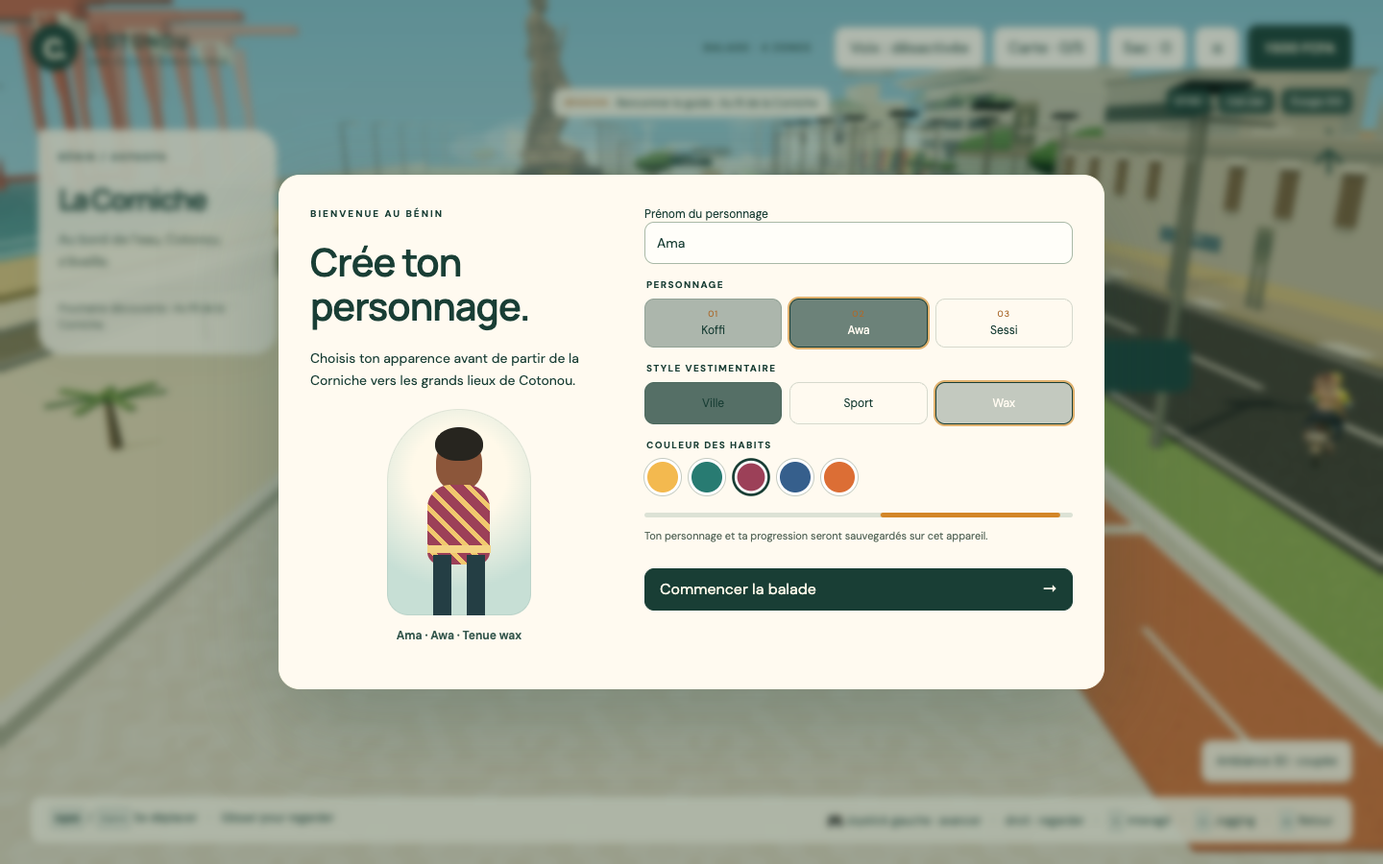
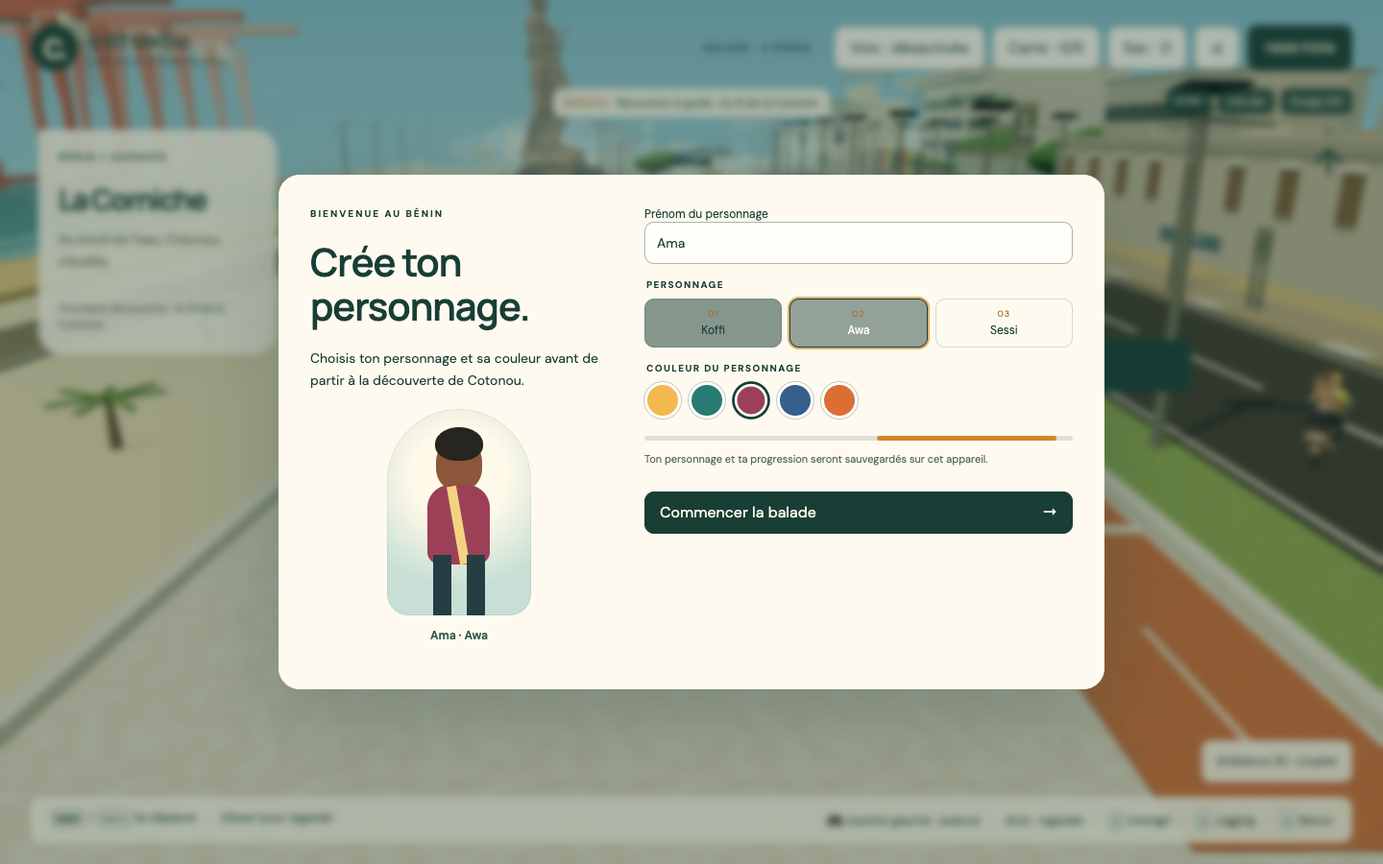
Corriger la couleur du personnage et le sens des trajets

diff --git a/src/Jeu.ts b/src/Jeu.ts
@@ -6,7 +6,7 @@ import { guides, lieux, zones, zoneActuelle, stations, etals, type Guide } from 
 import { DialogueVocal } from './ui/DialogueVocal';
 import { Manette, type LectureManette } from './input/Manette';
 import { demanderIA } from './ui/DialogueIA';
-import type { CorpsJoueur, StyleTenue } from './entities/Foule';
+import type { CorpsJoueur } from './entities/Foule';
 const $ = <T extends HTMLElement=HTMLElement>(id:string)=>document.getElementById(id) as T;
 type Interaction = {type:'guide';guide:Guide}|{type:'vendeuse'|'sport'|'transport'}|null;
 
@@ -27,7 +27,6 @@ export class Jeu {
   private sauvegardeTemps=0;
   private tenue='#f3b94f';
   private corpsJoueur:CorpsJoueur='personnage1.glb';
-  private styleTenue:StyleTenue='ville';
   private nomJoueur='Mika';
   private get panel(){return $<HTMLDialogElement>('panel');}
   private get accueil(){return $<HTMLDialogElement>('welcome');}
@@ -63,7 +62,7 @@ export class Jeu {
     <div id="sport" hidden><span id="sport-label">Jogging</span><progress id="progress" max="50" value="0"></progress></div>
     <footer><div><kbd>ZQSD</kbd> / <kbd>↑↓←→</kbd> Se déplacer <span>·</span> Glisser pour regarder</div><div>🎮 Joystick gauche : avancer <span>·</span> droit : regarder <span>·</span> <kbd>✕</kbd> Interagir <span>·</span> <kbd>□</kbd> Jogging <span>·</span> <kbd>○</kbd> Retour</div></footer>
     <div id="touch"><button data-key="arrowup" aria-label="Avancer">↑</button><div><button data-key="arrowleft" aria-label="Aller à gauche">←</button><button data-key="arrowdown" aria-label="Reculer">↓</button><button data-key="arrowright" aria-label="Aller à droite">→</button></div></div>
-    <dialog id="welcome"><div class="welcome-copy"><p class="eyebrow">BIENVENUE AU BÉNIN</p><h2>Crée ton personnage.</h2><p>Choisis ton apparence avant de partir de la Corniche vers les grands lieux de Cotonou.</p><div id="avatar-preview" class="avatar-preview" data-style="ville"><div class="preview-head"></div><div class="preview-hair"></div><div class="preview-body"></div><div class="preview-accent"></div><div class="preview-legs"></div></div><p id="avatar-summary" class="avatar-summary">Mika · Koffi · Tenue de ville</p></div><div class="character-creator"><label>Prénom du personnage<input id="player-name" maxlength="16" value="Mika" autocomplete="off"></label><fieldset><legend>Personnage</legend><div class="avatar-options"><button type="button" data-avatar="personnage1.glb" aria-pressed="true"><span>01</span>Koffi</button><button type="button" data-avatar="perso2.glb" aria-pressed="false"><span>02</span>Awa</button><button type="button" data-avatar="go2.glb" aria-pressed="false"><span>03</span>Sessi</button></div></fieldset><fieldset><legend>Style vestimentaire</legend><div class="style-options"><button type="button" data-clothing="ville" aria-pressed="true">Ville</button><button type="button" data-clothing="sport" aria-pressed="false">Sport</button><button type="button" data-clothing="wax" aria-pressed="false">Wax</button></div></fieldset><fieldset><legend>Couleur des habits</legend><div class="color-options"><button type="button" data-color="#f3b94f" aria-label="Jaune soleil" aria-pressed="true"></button><button type="button" data-color="#287b72" aria-label="Vert lagune" aria-pressed="false"></button><button type="button" data-color="#9c4058" aria-label="Bordeaux" aria-pressed="false"></button><button type="button" data-color="#365f8c" aria-label="Bleu" aria-pressed="false"></button><button type="button" data-color="#dc6e35" aria-label="Orange" aria-pressed="false"></button></div></fieldset><div class="loading-city"><span></span></div><p class="note">Ton personnage et ta progression seront sauvegardés sur cet appareil.</p><button id="begin" class="primary">Commencer la balade <span>→</span></button></div></dialog>
+    <dialog id="welcome"><div class="welcome-copy"><p class="eyebrow">BIENVENUE AU BÉNIN</p><h2>Crée ton personnage.</h2><p>Choisis ton personnage et sa couleur avant de partir à la découverte de Cotonou.</p><div id="avatar-preview" class="avatar-preview"><div class="preview-head"></div><div class="preview-hair"></div><div class="preview-body"></div><div class="preview-accent"></div><div class="preview-legs"></div></div><p id="avatar-summary" class="avatar-summary">Mika · Koffi</p></div><div class="character-creator"><label>Prénom du personnage<input id="player-name" maxlength="16" value="Mika" autocomplete="off"></label><fieldset><legend>Personnage</legend><div class="avatar-options"><button type="button" data-avatar="personnage1.glb" aria-pressed="true"><span>01</span>Koffi</button><button type="button" data-avatar="perso2.glb" aria-pressed="false"><span>02</span>Awa</button><button type="button" data-avatar="go2.glb" aria-pressed="false"><span>03</span>Sessi</button></div></fieldset><fieldset><legend>Couleur du personnage</legend><div class="color-options"><button type="button" data-color="#f3b94f" aria-label="Jaune soleil" aria-pressed="true"></button><button type="button" data-color="#287b72" aria-label="Vert lagune" aria-pressed="false"></button><button type="button" data-color="#9c4058" aria-label="Bordeaux" aria-pressed="false"></button><button type="button" data-color="#365f8c" aria-label="Bleu" aria-pressed="false"></button><button type="button" data-color="#dc6e35" aria-label="Orange" aria-pressed="false"></button></div></fieldset><div class="loading-city"><span></span></div><p class="note">Ton personnage et ta progression seront sauvegardés sur cet appareil.</p><button id="begin" class="primary">Commencer la balade <span>→</span></button></div></dialog>
     <dialog id="panel"><button id="close" class="close" aria-label="Fermer">×</button><p id="panel-kicker" class="eyebrow"></p><h2 id="panel-title"></h2><div id="panel-body"></div></dialog>`;
   }
   private notifier(text:string){
@@ -84,7 +83,7 @@ export class Jeu {
     {id:'mobilite',titre:'Mobilité urbaine',detail:'Essayer le zémidjan et la voiture',gain:250,faite:this.partie.transportsUtilises.has('zemidjan')&&this.partie.transportsUtilises.has('voiture')},
   ];}
   private sauvegarder(){
-    try{localStorage.setItem('cotonou-sauvegarde-v2',JSON.stringify({partie:this.partie.serialiser(),sport:{termine:this.sport.termine},position:{x:this.monde.player.position.x,z:this.monde.player.position.z},tenue:this.tenue,corpsJoueur:this.corpsJoueur,styleTenue:this.styleTenue,nomJoueur:this.nomJoueur}));}catch{}
+    try{localStorage.setItem('cotonou-sauvegarde-v2',JSON.stringify({partie:this.partie.serialiser(),sport:{termine:this.sport.termine},position:{x:this.monde.player.position.x,z:this.monde.player.position.z},tenue:this.tenue,corpsJoueur:this.corpsJoueur,nomJoueur:this.nomJoueur}));}catch{}
   }
   private chargerSauvegarde(){
     try{
@@ -94,7 +93,6 @@ export class Jeu {
       if(data?.position)this.monde.restaurerPosition(Number(data.position.x),Number(data.position.z));
       if(typeof data?.tenue==='string')this.tenue=data.tenue;
       if(['personnage1.glb','perso2.glb','go2.glb'].includes(data?.corpsJoueur))this.corpsJoueur=data.corpsJoueur;
-      if(['ville','sport','wax'].includes(data?.styleTenue))this.styleTenue=data.styleTenue;
       if(typeof data?.nomJoueur==='string'&&data.nomJoueur.trim())this.nomJoueur=data.nomJoueur.slice(0,16);
       this.appliquerApparence();
       $<HTMLButtonElement>('begin').innerHTML='Continuer la balade <span>→</span>';this.synchroniser();
@@ -148,20 +146,17 @@ export class Jeu {
     $<HTMLInputElement>('player-name').value=this.nomJoueur;
     $('player-name').addEventListener('input',()=>{this.nomJoueur=$<HTMLInputElement>('player-name').value.trim().slice(0,16)||'Mika';this.mettreAJourCreateur();});
     document.querySelectorAll<HTMLButtonElement>('[data-avatar]').forEach(b=>b.onclick=()=>{this.corpsJoueur=b.dataset.avatar as CorpsJoueur;this.appliquerApparence();});
-    document.querySelectorAll<HTMLButtonElement>('[data-clothing]').forEach(b=>b.onclick=()=>{this.styleTenue=b.dataset.clothing as StyleTenue;this.appliquerApparence();});
     document.querySelectorAll<HTMLButtonElement>('[data-color]').forEach(b=>b.onclick=()=>{this.tenue=b.dataset.color!;this.appliquerApparence();});
     this.appliquerApparence();
   }
-  private appliquerApparence(){this.monde.personnaliserJoueur(this.tenue,this.corpsJoueur,this.styleTenue);this.mettreAJourCreateur();}
+  private appliquerApparence(){this.monde.personnaliserJoueur(this.tenue,this.corpsJoueur);this.mettreAJourCreateur();}
   private mettreAJourCreateur(){
     if(!$('avatar-preview'))return;
     const noms:Record<CorpsJoueur,string>={'personnage1.glb':'Koffi','perso2.glb':'Awa','go2.glb':'Sessi'};
-    const styles:Record<StyleTenue,string>={ville:'Tenue de ville',sport:'Tenue de sport',wax:'Tenue wax'};
-    $('avatar-preview').dataset.style=this.styleTenue;$('avatar-preview').dataset.avatar=this.corpsJoueur;
+    $('avatar-preview').dataset.avatar=this.corpsJoueur;
     $('avatar-preview').style.setProperty('--outfit',this.tenue);
-    $('avatar-summary').textContent=`${this.nomJoueur} · ${noms[this.corpsJoueur]} · ${styles[this.styleTenue]}`;
+    $('avatar-summary').textContent=`${this.nomJoueur} · ${noms[this.corpsJoueur]}`;
     document.querySelectorAll<HTMLButtonElement>('[data-avatar]').forEach(b=>b.setAttribute('aria-pressed',String(b.dataset.avatar===this.corpsJoueur)));
-    document.querySelectorAll<HTMLButtonElement>('[data-clothing]').forEach(b=>b.setAttribute('aria-pressed',String(b.dataset.clothing===this.styleTenue)));
     document.querySelectorAll<HTMLButtonElement>('[data-color]').forEach(b=>b.setAttribute('aria-pressed',String(b.dataset.color===this.tenue)));
   }
   private elementsManette(dialogue:HTMLDialogElement){
@@ -232,7 +227,7 @@ export class Jeu {
     if($('summary'))$('summary').onclick=()=>{this.panel.close();this.bilan();};
   }
   private ouvrirMenu(){
-    this.ouvrir('Pause','RÉGLAGES ET SAUVEGARDE',`<div class="settings"><label>Qualité graphique<select id="quality"><option value="normale">Normale</option><option value="basse">Basse</option><option value="haute">Haute</option></select></label><label>Météo<select id="weather-setting"><option value="auto">Dynamique</option><option value="soleil">Ciel clair</option><option value="pluie">Pluie tropicale</option></select></label><label>Heure<select id="time-setting"><option value="auto">Cycle automatique</option><option value="matin">Matin</option><option value="jour">Journée</option><option value="soir">Soirée</option></select></label><label>Volume ambiance<input id="volume-setting" type="range" min="0" max="100" value="58"></label></div><h3>${this.nomJoueur}</h3><p class="note">Tu peux changer de personnage, de style ou de couleur pendant la partie.</p><button id="edit-character">Modifier mon personnage</button><p class="note">La progression et la position sont enregistrées automatiquement sur cet appareil.</p><button id="save-now" class="primary">Sauvegarder maintenant</button> <button id="reset-save">Nouvelle partie</button>`);
+    this.ouvrir('Pause','RÉGLAGES ET SAUVEGARDE',`<div class="settings"><label>Qualité graphique<select id="quality"><option value="normale">Normale</option><option value="basse">Basse</option><option value="haute">Haute</option></select></label><label>Météo<select id="weather-setting"><option value="auto">Dynamique</option><option value="soleil">Ciel clair</option><option value="pluie">Pluie tropicale</option></select></label><label>Heure<select id="time-setting"><option value="auto">Cycle automatique</option><option value="matin">Matin</option><option value="jour">Journée</option><option value="soir">Soirée</option></select></label><label>Volume ambiance<input id="volume-setting" type="range" min="0" max="100" value="58"></label></div><h3>${this.nomJoueur}</h3><p class="note">Tu peux changer de personnage ou de couleur pendant la partie.</p><button id="edit-character">Modifier mon personnage</button><p class="note">La progression et la position sont enregistrées automatiquement sur cet appareil.</p><button id="save-now" class="primary">Sauvegarder maintenant</button> <button id="reset-save">Nouvelle partie</button>`);
     $<HTMLSelectElement>('quality').onchange=e=>this.monde.reglerQualite((e.target as HTMLSelectElement).value as 'basse'|'normale'|'haute');
     $<HTMLSelectElement>('weather-setting').onchange=e=>this.monde.reglerMeteo((e.target as HTMLSelectElement).value as 'auto'|'soleil'|'pluie');
     $<HTMLSelectElement>('time-setting').onchange=e=>this.monde.reglerHeure((e.target as HTMLSelectElement).value as 'auto'|'matin'|'jour'|'soir');
@@ -278,13 +273,18 @@ export class Jeu {
     this.ouvrir('On t’emmène ?','BORNE DE TRANSPORT',`<p>Choisis ton véhicule. Tu le diriges avec les mêmes commandes et tu peux descendre avec F. Le tarif est payé une seule fois à la montée.</p><div class="transport-options">${this.transports.map(t=>`<button data-transport="${t.id}"><strong>${t.nom}</strong><span>${t.tarif} FCFA · vitesse ×${t.vitesse/4}</span></button>`).join('')}</div><div id="ride-confirmation" role="status"></div><p class="note">Tarifs fictifs. Sans solde suffisant, tu peux continuer à pied gratuitement.</p>`);
     $('panel-body').querySelectorAll<HTMLButtonElement>('[data-transport]').forEach(b=>b.onclick=()=>{
       const transport=this.transports.find(t=>t.id===b.dataset.transport)!;
-      $('ride-confirmation').innerHTML=`<p>Confirmer ${transport.nom} pour ${transport.tarif} FCFA ?</p><button id="confirm-ride" class="primary">Confirmer et monter</button> <button id="cancel-ride">Annuler</button>`;
+      $('ride-confirmation').innerHTML=`<p><strong>Dans quel sens pars-tu ?</strong></p><div class="direction-options"><button data-direction="etoile"><strong>Vers l’Étoile Rouge</strong><span>Amazone · Présidence · Congrès</span></button><button data-direction="corniche"><strong>Vers la Corniche</strong><span>Akpakpa · Hôtel du Lac</span></button></div><button id="cancel-ride">Annuler</button>`;
       $('cancel-ride').onclick=()=>$('ride-confirmation').replaceChildren();
-      $('confirm-ride').onclick=()=>{
-        if(!this.partie.monter(transport)){this.manette.vibrer('erreur');$('ride-confirmation').textContent='Solde insuffisant ou véhicule déjà actif. Tu peux continuer à pied.';return;}
-        this.manette.vibrer('montee');
-        this.sport.arreter();this.monde.engagerTransportSurVoie(transport.id);this.synchroniser();this.panel.close();this.notifier(`${transport.nom} engagé sur la voie : avance avec Z, ↑ ou le joystick gauche. F ou ○ pour descendre.`);
-      };
+      $('ride-confirmation').querySelectorAll<HTMLButtonElement>('[data-direction]').forEach(direction=>direction.onclick=()=>{
+        const sens=direction.dataset.direction as 'etoile'|'corniche',destination=sens==='etoile'?'l’Étoile Rouge':'la Corniche';
+        $('ride-confirmation').innerHTML=`<p>Confirmer ${transport.nom} vers ${destination} pour ${transport.tarif} FCFA ?</p><button id="confirm-ride" class="primary">Confirmer et monter</button> <button id="cancel-ride">Changer de direction</button>`;
+        $('cancel-ride').onclick=()=>b.click();
+        $('confirm-ride').onclick=()=>{
+          if(!this.partie.monter(transport)){this.manette.vibrer('erreur');$('ride-confirmation').textContent='Solde insuffisant ou véhicule déjà actif. Tu peux continuer à pied.';return;}
+          this.manette.vibrer('montee');this.sport.arreter();this.monde.engagerTransportSurVoie(transport.id,sens);this.synchroniser();this.panel.close();
+          this.notifier(`${transport.nom} orienté vers ${destination} sur la bonne voie. Avance avec Z, ↑ ou le joystick gauche.`);
+        };
+      });
     });
   }
   private descendre(){

diff --git a/src/style.css b/src/style.css
@@ -15,15 +15,15 @@ select{width:100%;margin-top:6px;border:1px solid #a9b9a7;border-radius:9px;padd
 #welcome[open]{display:grid;grid-template-columns:minmax(250px,.82fr) minmax(330px,1.18fr);gap:38px}
 #welcome h2{font-size:40px}.welcome-copy{align-self:center}.character-creator{min-width:0}
 .character-creator fieldset{border:0;padding:0;margin:15px 0}.character-creator legend{font-size:10px;font-weight:700;letter-spacing:1.4px;text-transform:uppercase;margin-bottom:8px}
-.avatar-options,.style-options,.color-options{display:flex;gap:8px}.avatar-options button,.style-options button{flex:1;padding:9px;font-size:12px}.avatar-options span{display:block;color:#aa6a2d;font-size:9px;letter-spacing:1px;margin-bottom:3px}
-.avatar-options button[aria-pressed=true],.style-options button[aria-pressed=true]{background:#193e35;color:#fffaf0;border-color:#193e35;box-shadow:0 0 0 2px #e0b16e}
+.avatar-options,.color-options{display:flex;gap:8px}.avatar-options button{flex:1;padding:9px;font-size:12px}.avatar-options span{display:block;color:#aa6a2d;font-size:9px;letter-spacing:1px;margin-bottom:3px}
+.avatar-options button[aria-pressed=true]{background:#193e35;color:#fffaf0;border-color:#193e35;box-shadow:0 0 0 2px #e0b16e}
 .color-options button{width:38px;min-height:38px;padding:0;border-radius:50%;background:var(--swatch);border:3px solid #fff;box-shadow:0 0 0 1px #193e3540}
 .color-options button[data-color="#f3b94f"]{--swatch:#f3b94f}.color-options button[data-color="#287b72"]{--swatch:#287b72}.color-options button[data-color="#9c4058"]{--swatch:#9c4058}.color-options button[data-color="#365f8c"]{--swatch:#365f8c}.color-options button[data-color="#dc6e35"]{--swatch:#dc6e35}
 .color-options button[aria-pressed=true]{box-shadow:0 0 0 3px #193e35;transform:scale(.9)}
 .avatar-preview{--outfit:#f3b94f;position:relative;width:150px;height:215px;margin:18px auto 8px;border-radius:80px 80px 24px 24px;background:radial-gradient(circle at 50% 32%,#fff9e9 0 30%,#c7dfd5 72%);overflow:hidden;box-shadow:inset 0 0 0 1px #193e3512}
 .preview-head{position:absolute;width:48px;height:56px;border-radius:48% 48% 42% 42%;background:#75472f;left:51px;top:29px}.preview-hair{position:absolute;width:50px;height:24px;border-radius:50% 50% 20% 20%;background:#27251f;left:50px;top:24px}.preview-body{position:absolute;width:65px;height:83px;border-radius:24px 24px 13px 13px;background:var(--outfit);left:42px;top:79px}.preview-accent{position:absolute;width:10px;height:82px;background:#f3d383;left:69px;top:80px;transform:rotate(-10deg)}.preview-legs{position:absolute;width:54px;height:68px;left:48px;top:152px;border-left:19px solid #243e44;border-right:19px solid #243e44}
 .avatar-preview[data-avatar="perso2.glb"] .preview-head{background:#8c563a}.avatar-preview[data-avatar="perso2.glb"] .preview-hair{height:35px;border-radius:50% 50% 45% 45%;top:19px}.avatar-preview[data-avatar="go2.glb"] .preview-head{background:#5e3929}.avatar-preview[data-avatar="go2.glb"] .preview-hair{width:55px;left:47px;border-radius:35%}
-.avatar-preview[data-style=sport] .preview-body{width:54px;left:48px;border-radius:16px 16px 8px 8px}.avatar-preview[data-style=sport] .preview-accent{width:7px;left:71px;transform:none}.avatar-preview[data-style=wax] .preview-body{background:repeating-linear-gradient(45deg,var(--outfit) 0 10px,#f1c86e 10px 15px)}.avatar-preview[data-style=wax] .preview-accent{width:66px;height:8px;left:42px;top:142px;transform:none}
 .avatar-summary{text-align:center;font-size:12px;font-weight:700;color:#36584e}
 #edit-character{margin-bottom:14px}
-@media(max-width:700px){#welcome{padding:22px;overflow:auto}#welcome[open]{display:block}.welcome-copy>p:not(.eyebrow),.welcome-copy h2{display:none}.avatar-preview{width:105px;height:140px;margin:0 auto 8px;transform:scale(.72);transform-origin:top center;margin-bottom:-32px}.character-creator fieldset{margin:11px 0}.avatar-options button,.style-options button{padding:7px 4px}.color-options{justify-content:center}#welcome .loading-city{display:none}}
+.direction-options{display:grid;grid-template-columns:1fr 1fr;gap:9px;margin:12px 0}.direction-options button{text-align:left;padding:15px}.direction-options strong,.direction-options span{display:block}.direction-options span{font-size:10px;color:#647369;margin-top:5px}.direction-options button:hover{background:#dce7db}
+@media(max-width:700px){#welcome{padding:22px;overflow:auto}#welcome[open]{display:block}.welcome-copy>p:not(.eyebrow),.welcome-copy h2{display:none}.avatar-preview{width:105px;height:140px;margin:0 auto 8px;transform:scale(.72);transform-origin:top center;margin-bottom:-32px}.character-creator fieldset{margin:11px 0}.avatar-options button{padding:7px 4px}.color-options{justify-content:center}#welcome .loading-city{display:none}}

diff --git a/src/entities/Foule.ts b/src/entities/Foule.ts
@@ -37,7 +37,6 @@ type Habitant = {
   bulle?:T.Sprite;
 };
 
-export type StyleTenue = 'ville'|'sport'|'wax';
 export type CorpsJoueur = 'personnage1.glb'|'perso2.glb'|'go2.glb';
 
 /** Teinte et saturation d’une couleur, pour reconnaître les habits dans l’atlas. */
@@ -83,8 +82,6 @@ export class Foule {
   private varie = false;
   private couleurJoueur='#f3b94f';
   private temps=0;
-  private accessoiresJoueur?:T.Group;
-  private styleJoueur:StyleTenue='ville';
 
   constructor(private readonly scene: T.Object3D) {}
 
@@ -235,9 +232,9 @@ export class Foule {
     }
     return habilles;
   }
-  personnaliserJoueur(couleur:string,corps:CorpsJoueur=this.corpsJoueur as CorpsJoueur,style:StyleTenue=this.styleJoueur){
+  personnaliserJoueur(couleur:string,corps:CorpsJoueur=this.corpsJoueur as CorpsJoueur){
     const corpsChange=corps!==this.corpsJoueur;
-    this.couleurJoueur=couleur;this.corpsJoueur=corps;this.styleJoueur=style;
+    this.couleurJoueur=couleur;this.corpsJoueur=corps;
     if(corpsChange)this.changerCorpsJoueur();
     this.appliquerCouleurJoueur();
   }
@@ -251,29 +248,14 @@ export class Foule {
   }
   private appliquerCouleurJoueur(){
     const h=this.joueur;if(!h||!this.matiereOrigine)return;
-    this.accessoiresJoueur?.removeFromParent();
-    const groupe=new T.Group();groupe.name=`tenue-joueur-${this.styleJoueur}`;
-    const tissu=new T.MeshStandardMaterial({color:this.couleurJoueur,roughness:.78,side:T.DoubleSide});
-    const clair=new T.MeshStandardMaterial({color:new T.Color(this.couleurJoueur).lerp(new T.Color('#f8df9c'),.38),roughness:.82,side:T.DoubleSide});
-    const piece=(geometrie:T.BufferGeometry,matiere:T.Material,x:number,y:number,z:number)=>{const m=new T.Mesh(geometrie,matiere);m.position.set(x,y,z);m.castShadow=true;groupe.add(m);return m;};
-    if(this.styleJoueur==='ville'){
-      const veste=piece(new T.CylinderGeometry(.255,.22,.53,12),tissu,0,1.22,.005);veste.scale.z=.72;
-      piece(new T.BoxGeometry(.3,.055,.025),clair,0,1.2,.18);
-    }else if(this.styleJoueur==='sport'){
-      const maillot=piece(new T.CylinderGeometry(.225,.205,.48,12),tissu,0,1.23,.006);maillot.scale.z=.7;
-      piece(new T.BoxGeometry(.08,.49,.025),clair,0,1.23,.17);
-      const bandeau=piece(new T.TorusGeometry(.145,.025,6,16),tissu,0,1.82,0);bandeau.rotation.x=Math.PI/2;
-    }else{
-      const pagne=piece(new T.CylinderGeometry(.22,.31,.64,12),tissu,0,.78,0);pagne.scale.z=.78;
-      for(const y of [.56,.76,.96])piece(new T.TorusGeometry(.275,.024,5,18),clair,0,y,0).rotation.x=Math.PI/2;
-      const echarpe=piece(new T.PlaneGeometry(.2,.82),tissu,.04,1.22,.19);echarpe.rotation.z=-.28;
-    }
-    h.personnage.objet.add(groupe);this.accessoiresJoueur=groupe;
     if(!h.fige){const tenue=this.matiere(this.couleurJoueur);h.corps.traverse(n=>{const m=n as T.Mesh;if(m.isMesh)m.material=tenue;});return;}
-    // Les silhouettes debout possèdent un autre atlas UV. On conserve leur
-    // propre texture et applique seulement une teinte claire.
+    this.teinterCorps(h.corps);
+  }
+  private teinterCorps(corps:T.Object3D){
+    // Les silhouettes debout possèdent leur propre atlas UV. La matière est
+    // clonée et teintée directement, sans ajouter de volumes autour du corps.
     const teinte=new T.Color(this.couleurJoueur).lerp(new T.Color('#ffffff'),.58);
-    h.corps.traverse(n=>{const m=n as T.Mesh;if(!m.isMesh||!(m.material instanceof T.MeshStandardMaterial))return;
+    corps.traverse(n=>{const m=n as T.Mesh;if(!m.isMesh||!(m.material instanceof T.MeshStandardMaterial))return;
       const origine=(m.userData.matiereTenueOrigine as T.MeshStandardMaterial|undefined)??m.material;
       m.userData.matiereTenueOrigine=origine;const matiere=origine.clone();matiere.color.copy(origine.color).multiply(teinte);m.material=matiere;});
   }
@@ -314,9 +296,9 @@ export class Foule {
     const corps=choix.clone();corps.scale.setScalar(echelle);
     corps.position.set(-centre.x*echelle,-boite.min.y*echelle,-centre.z*echelle);
     corps.rotation.x=-.1;
+    this.teinterCorps(corps);
     corps.traverse(n=>{const m=n as T.Mesh;if(m.isMesh){m.castShadow=false;m.receiveShadow=true;}});
     const passager=new T.Group();passager.name='passager-joueur-moto';passager.add(corps);passager.visible=false;
-    if(this.accessoiresJoueur){const tenue=this.accessoiresJoueur.clone();tenue.scale.setScalar(.85);passager.add(tenue);}
     return passager;
   }
   /** Fait entrer ou sortir visuellement le corps du joueur par le côté du véhicule. */

diff --git a/tests/systemes.spec.ts b/tests/systemes.spec.ts
@@ -9,15 +9,12 @@ test('sauvegarde, météo, réglages, carte et missions',async({page})=>{
   await page.goto('/');
   await page.getByLabel('Prénom du personnage').fill('Ama');
   await page.getByRole('button',{name:/Awa/}).click();
-  await page.getByRole('button',{name:'Wax'}).click();
   await page.getByRole('button',{name:'Bordeaux'}).click();
-  await expect(page.locator('#avatar-summary')).toHaveText('Ama · Awa · Tenue wax');
-  await expect(page.getByRole('button',{name:'Wax'})).toHaveAttribute('aria-pressed','true');
-  await expect(page.getByRole('button',{name:'Ville'})).toHaveAttribute('aria-pressed','false');
+  await expect(page.locator('#avatar-summary')).toHaveText('Ama · Awa');
   await page.screenshot({path:'docs/audit/createur-personnage.png'});
   await page.getByRole('button',{name:'Commencer la balade'}).click();
-  await expect.poll(()=>page.evaluate(()=>{const s=(window as any).__scenes.find((v:any)=>v.getObjectByName('joueur'));return s.getObjectByName('joueur').userData.apparenceJoueur;})).toEqual({couleur:'#9c4058',corps:'perso2.glb',style:'wax'});
-  await expect.poll(()=>page.evaluate(()=>{const s=(window as any).__scenes.find((v:any)=>v.getObjectByName('joueur'));const j=s.getObjectByName('joueur');return {avatar:j.getObjectByName('corps-personnage')?.userData.avatar,tenue:!!j.getObjectByName('tenue-joueur-wax')};}),{timeout:20000}).toEqual({avatar:'perso2.glb',tenue:true});
+  await expect.poll(()=>page.evaluate(()=>{const s=(window as any).__scenes.find((v:any)=>v.getObjectByName('joueur'));return s.getObjectByName('joueur').userData.apparenceJoueur;})).toEqual({couleur:'#9c4058',corps:'perso2.glb'});
+  await expect.poll(()=>page.evaluate(()=>{const s=(window as any).__scenes.find((v:any)=>v.getObjectByName('joueur'));const j=s.getObjectByName('joueur');return {avatar:j.getObjectByName('corps-personnage')?.userData.avatar,surcouche:j.children.some((v:any)=>v.name.startsWith('tenue-joueur-'))};}),{timeout:20000}).toEqual({avatar:'perso2.glb',surcouche:false});
   expect([200,502,503]).toContain(await page.evaluate(async()=>{const r=await fetch('/api/dialogue',{method:'POST',headers:{'content-type':'application/json'},body:JSON.stringify({message:'Bonjour',historique:[]})});return r.status;}));
   await page.getByRole('button',{name:'Pause et réglages'}).click();
   await page.getByLabel('Météo').selectOption('pluie');await page.getByLabel('Heure').selectOption('soir');
@@ -28,7 +25,7 @@ test('sauvegarde, météo, réglages, carte et missions',async({page})=>{
   await page.getByRole('button',{name:/Carte/}).click();await expect(page.getByRole('heading',{name:'Carte et missions'})).toBeVisible();await expect(page.locator('.missions')).toContainText('Mémoire de Cotonou');await page.keyboard.press('Escape');
   await page.evaluate(()=>{const s=(window as any).__scenes.find((v:any)=>v.getObjectByName('joueur'));s.getObjectByName('joueur').position.set(2,.15,-121);});
   await page.waitForTimeout(2300);await page.reload();await expect(page.getByRole('button',{name:'Continuer la balade'})).toBeVisible();
-  await expect(page.getByLabel('Prénom du personnage')).toHaveValue('Ama');await expect(page.getByRole('button',{name:/Awa/})).toHaveAttribute('aria-pressed','true');await expect(page.getByRole('button',{name:'Wax'})).toHaveAttribute('aria-pressed','true');
+  await expect(page.getByLabel('Prénom du personnage')).toHaveValue('Ama');await expect(page.getByRole('button',{name:/Awa/})).toHaveAttribute('aria-pressed','true');
   await page.getByRole('button',{name:'Continuer la balade'}).click();
   await expect.poll(()=>page.evaluate(()=>{const s=(window as any).__scenes.find((v:any)=>v.getObjectByName('joueur'));return s.getObjectByName('joueur').position.z;})).toBeCloseTo(-121,0);
   expect(errors).toEqual([]);

diff --git a/src/world.ts b/src/world.ts
@@ -5,7 +5,7 @@ import { Batisseur } from './entities/Batisseur';
 import { boulevard, corniche, esplanadeAmazone, citeMinisterielle, palaisMarina, palaisCongres, etoileRouge, figures, vehicule } from './entities/Monuments';
 import { chargerModeles, type Pose } from './entities/Modeles';
 import { Foule } from './entities/Foule';
-import type { CorpsJoueur, StyleTenue } from './entities/Foule';
+import type { CorpsJoueur } from './entities/Foule';
 import { MerAnimee } from './entities/MerAnimee';
 import { VieUrbaine } from './entities/VieUrbaine';
 import { Meteo, type ModeMeteo } from './entities/Meteo';
@@ -29,6 +29,7 @@ const POSES: Pose[] = [
 
 type Frame = {paused:boolean;running:boolean;transport:'zemidjan'|'voiture'|null;speed:number};
 type TransitionTransport={type:'zemidjan'|'voiture';sens:'montee'|'descente';temps:number;duree:number};
+export type DirectionTrajet='etoile'|'corniche';
 export class Monde {
   readonly scene = new T.Scene();
   readonly camera = new T.PerspectiveCamera(48,innerWidth/innerHeight,.1,260);
@@ -77,9 +78,9 @@ export class Monde {
   restaurerPosition(x:number,z:number){
     if(Number.isFinite(x)&&Number.isFinite(z))this.player.position.set(T.MathUtils.clamp(x,-25,23),.15,T.MathUtils.clamp(z,-406,24));
   }
-  personnaliserJoueur(couleur:string,corps:CorpsJoueur='personnage1.glb',style:StyleTenue='ville'){
-    this.foule.personnaliserJoueur(couleur,corps,style);
-    this.player.userData.apparenceJoueur={couleur,corps,style};
+  personnaliserJoueur(couleur:string,corps:CorpsJoueur='personnage1.glb'){
+    this.foule.personnaliserJoueur(couleur,corps);
+    this.player.userData.apparenceJoueur={couleur,corps};
     if(this.passagerMoto){this.passagerMoto.removeFromParent();this.passagerMoto=undefined;}
     const passager=this.foule.creerPassagerMoto();
     if(passager){this.passagerMoto=passager;this.scene.add(passager);}
@@ -96,14 +97,16 @@ export class Monde {
    * Sans ce déplacement, un joueur placé près du poteau pouvait démarrer dans
    * son volume de collision et rester bloqué malgré le statut « en véhicule ».
    */
-  engagerTransportSurVoie(type:'zemidjan'|'voiture') {
+  engagerTransportSurVoie(type:'zemidjan'|'voiture',direction:DirectionTrajet) {
     this.keys.clear();
     this.axesManette.x = this.axesManette.z = 0;
-    this.player.position.x = 14;
+    const versEtoile=direction==='etoile',voie=versEtoile?14:18.3;
+    this.player.position.x = voie;
     this.player.position.y = .15;
-    this.player.position.z = this.rues.placeLibreSurVoie(this.player.position.z);
-    this.player.rotation.y = Math.PI;
-    this.yaw = 0;
+    this.player.position.z = this.rues.placeLibreSurVoie(this.player.position.z,voie);
+    this.player.rotation.y = versEtoile?Math.PI:0;
+    this.player.userData.directionTrajet=direction;
+    this.yaw = versEtoile?0:-Math.PI;
     this.transitionTransport={type,sens:'montee',temps:0,duree:.95};
   }
 

diff --git a/tests/parcours.spec.ts b/tests/parcours.spec.ts
@@ -18,6 +18,7 @@ test('modèles, cinq guides, transport et fin de démo',async({page})=>{
  // Le départ se fait volontairement au cœur de la borne : la montée doit dégager
  // le véhicule sur la voie et permettre d'avancer immédiatement.
  await position(3,-24);await page.keyboard.press('e');await page.getByRole('button',{name:'Zémidjan 200 FCFA'}).click();
+ await page.getByRole('button',{name:/Vers l’Étoile Rouge/}).click();
  await expect.poll(()=>page.evaluate(()=>{const s=(window as any).__scenes.find((v:any)=>v.getObjectByName('joueur'));return !!s.getObjectByName('joueur').getObjectByName('corps-personnage');}),{timeout:30000}).toBe(true);
  await expect(page.locator('#wallet')).toHaveText('1 500 FCFA');await page.getByRole('button',{name:'Confirmer et monter'}).click();await expect(page.locator('#wallet')).toHaveText('1 300 FCFA');
  await expect.poll(()=>page.evaluate(()=>{const s=(window as any).__scenes.find((v:any)=>v.getObjectByName('joueur'));return s.getObjectByName('joueur').userData.transitionTransport?.sens;}),{timeout:800}).toBe('montee');
@@ -51,10 +52,11 @@ test('modèles, cinq guides, transport et fin de démo',async({page})=>{
  await page.keyboard.press('f');await expect(page.locator('#vehicle-status')).toBeHidden();
  // La voiture emprunte exactement la même sortie de borne et doit aussi avancer.
  await position(3,-24);await page.keyboard.press('e');await page.getByRole('button',{name:'Voiture 500 FCFA'}).click();
+ await page.getByRole('button',{name:/Vers la Corniche/}).click();
  await page.getByRole('button',{name:'Confirmer et monter'}).click();await expect(page.locator('#wallet')).toHaveText('600 FCFA');
- await expect.poll(async()=>(await positionVehicule()).x).toBeCloseTo(14,1);
+ await expect.poll(async()=>(await positionVehicule()).x).toBeCloseTo(18.3,1);
  const departVoiture=(await positionVehicule()).z;await page.keyboard.down('z');
- await expect.poll(async()=>(await positionVehicule()).z,{timeout:10000}).toBeLessThan(departVoiture-1);
+ await expect.poll(async()=>(await positionVehicule()).z,{timeout:10000}).toBeGreaterThan(departVoiture+1);
  await page.keyboard.up('z');
  // En voiture, le même choc couche le piéton et provoque un arrêt avec une secousse.
  await page.evaluate(()=>{const s=(window as any).__scenes.find((v:any)=>v.getObjectByName('joueur'));const j=s.getObjectByName('joueur'),p=s.getObjectByName('passant-1');j.position.set(0,.15,-185);p.position.set(0,.15,-186.4);});

diff --git a/src/entities/Rues.ts b/src/entities/Rues.ts
@@ -414,10 +414,10 @@ export class Rues {
       .map(p=>({x:p.objet.position.x,z:p.objet.position.z,w:p.type==='minibus'?2.2:p.type==='velo'?0.8:1.9,d:p.type==='minibus'?4.8:p.type==='velo'?1.7:3.4}));
   }
   /** Cherche autour de la borne un emplacement qui laisse quatre mètres libres. */
-  placeLibreSurVoie(z:number){
+  placeLibreSurVoie(z:number,voie=14){
     for(const decalage of [0,-8,8,-16,16,-24,24,-32,32,-40,40,-52,52]){
       const candidat=T.MathUtils.clamp(z+decalage,-398,18);
-      const libre=this.mouvements.every(p=>p.personne||Math.abs(p.objet.position.x-14)>1.8||Math.abs(p.objet.position.z-candidat)>10);
+      const libre=this.mouvements.every(p=>p.personne||Math.abs(p.objet.position.x-voie)>1.8||Math.abs(p.objet.position.z-candidat)>10);
       if(libre)return candidat;
     }
     return T.MathUtils.clamp(z,-398,18);

diff --git a/README.md b/README.md
@@ -4,7 +4,7 @@
 
 Un jeu de découverte urbaine en 3D dans le navigateur. Le joueur explore Cotonou à pied, emprunte des transports payants, discute avec des vendeuses par écrit ou par voix et découvre les lieux avec des guides écrits et audio.
 
-Avant le départ, le joueur crée son personnage : prénom, choix entre trois silhouettes 3D, style de ville, sport ou wax, puis couleur des habits. Cette apparence est visible à pied et sur le zémidjan, peut être modifiée depuis le menu Pause et est sauvegardée avec la progression.
+Avant le départ, le joueur choisit son prénom, une des trois silhouettes 3D et sa couleur. La teinte s’applique directement au modèle, sans ajouter de vêtement géométrique. Cette apparence est visible à pied et sur le zémidjan, peut être modifiée depuis le menu Pause et est sauvegardée avec la progression.
 
 Le dossier était vide au démarrage. Le cadrage ci-dessous décrit le MVP cible ; les quatre zones et les cinq lieux sont maintenant implémentés, et leurs décors sont repris d’après des photographies des lieux réels (voir « Prototype disponible » et [docs/REFERENCES.md](docs/REFERENCES.md)).
 
@@ -44,7 +44,7 @@ Quatre zones représentent cinq lieux. Les distances et les liaisons seront simp
 
 ## Périmètre proposé
 
-Le prototype comprend le zémidjan et la voiture. Les tarifs, le budget initial et les objets vendus restent fictifs.
+Le prototype comprend le zémidjan et la voiture. À la commande, le joueur choisit s’il part vers l’Étoile Rouge ou vers la Corniche ; le véhicule rejoint alors la voie correspondant à ce sens et s’oriente avant le départ. Les tarifs, le budget initial et les objets vendus restent fictifs.
 
 Le trajet doit rester réalisable à pied si le joueur manque d'argent. Un paiement refusé ne modifie ni le solde ni l'inventaire. Les narrations ne doivent pas se superposer.
 
